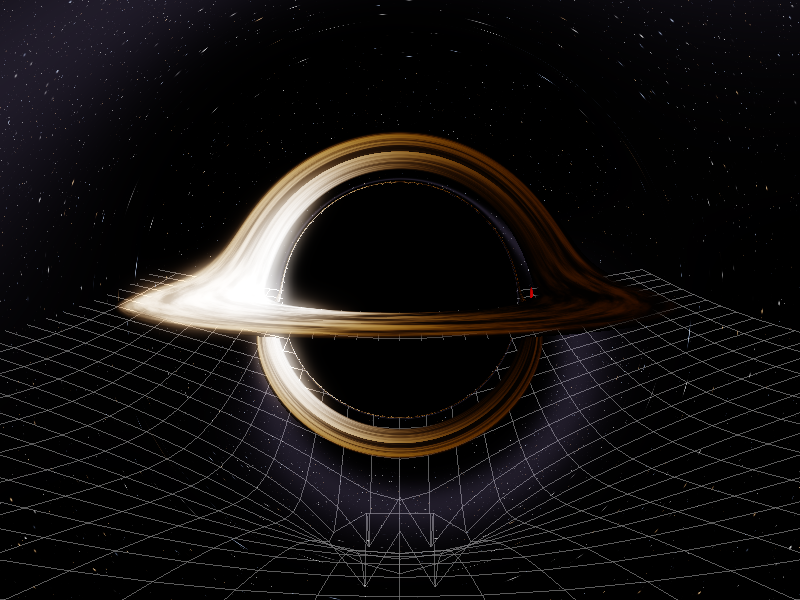
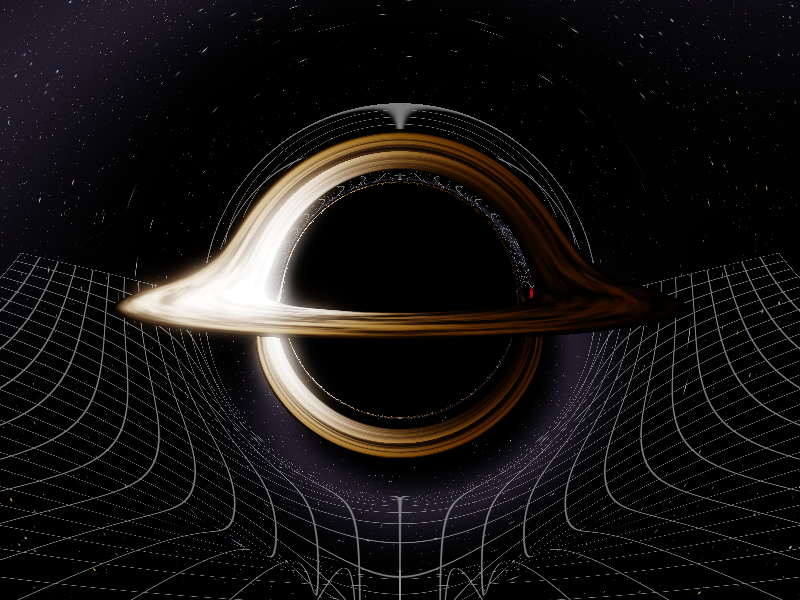
Ray trace the spacetime grid
The grid is now Flamm's paraboloid (the Schwarzschild embedding diagram)
intersected by the light rays themselves, instead of a flat overlay drawn
behind the image. It is lensed, wraps around the shadow, and is occluded
by the hole and disk.

- Lines are composited front-to-back and the ray continues through gaps
- Line width scales with ray distance for ~1px anti-aliased lines
- Bounding-box early-out keeps the cost close to zero
- T cycles grid mode (ray traced / off / reference overlay); --grid flag
- README and screenshot updated

diff --git a/src/main.cpp b/src/main.cpp
@@ -74,6 +74,10 @@ static bool  gGravity = false;
 static bool  gScreenshotRequested = false;   // set by the P key
 static bool  gRealDisk  = true;   // D: relativistic (Doppler/redshift) disk vs reference flat disk
 static bool  gShowStars = true;   // B: lensed starfield background
+// T: spacetime grid mode. 1 = ray traced (lensed, occluded), 0 = off,
+// 2 = flat overlay drawn behind the image (the reference's original method)
+static int   gGridMode = 1;
+static const char* kGridModeNames[] = { "off", "ray traced", "flat overlay (reference)" };
 
 // ---------- Camera ----------
 struct Camera {
@@ -365,11 +369,32 @@ vec4 diskColorRelativistic(vec3 pc, vec3 rayDir, float r1, float r2, float rCam,
     return vec4(c * edge, edge);
 }
 
+// ---------------------------------------------------------------------------
+// Ray-traced spacetime grid: Flamm's paraboloid, the embedding diagram of the
+// Schwarzschild geometry:  y(d) = Y0 + 2*sqrt(rs*(d - rs)),  d = horizontal
+// distance from the hole. Light rays hit it like any other surface, so the
+// grid is lensed, wraps around the shadow, and is hidden behind the hole.
+// Only the lines are drawn; rays pass through the gaps and continue.
+// ---------------------------------------------------------------------------
+const float GRID_SPACING_M = 1e10;   // line spacing (metres), same as the old CPU grid
+const float GRID_HALF      = 13.0;   // half-extent in cells
+const float GRID_Y0_M      = -9e10;  // height of the funnel's throat (metres)
+const float GRID_LINE_PX   = 1.1;    // line width in pixels
+const vec3  GRID_COLOR     = vec3(0.5);
+const float GRID_ALPHA     = 0.7;
+
+// signed height above the surface (rs units, rs = 1)
+float gridF(vec3 p, float y0){
+    float d = max(length(p.xz), 1.0);
+    return p.y - (y0 + 2.0 * sqrt(d - 1.0));
+}
+
 void main(){
     int WIDTH  = CAM.ires.x;
     int HEIGHT = CAM.ires.y;
     ivec2 pix = ivec2(gl_GlobalInvocationID.xy);
     if (pix.x >= WIDTH || pix.y >= HEIGHT) return;
+    bool rtGrid = CAM.ires.z == 1;
 
     int flags = int(CAM.params.w + 0.5);
     bool realDisk = (flags & 1) != 0;
@@ -388,8 +413,17 @@ void main(){
     vec3 hv = cross(x, v);
     H2 = dot(hv, hv);
 
-    vec4 color = vec4(0);           // default: escaped -> transparent (grid shows)
+    vec4 color = vec4(0);           // what the ray finally hits (premultiplied)
+    vec4 front = vec4(0);           // grid lines crossed on the way (front-to-back)
     bool done = false;
+
+    float gS   = GRID_SPACING_M / RS;
+    float gY0  = GRID_Y0_M / RS;
+    float gExt = GRID_HALF * gS;
+    float pixAngle = 2.0 * CAM.params.x / float(HEIGHT);   // radians per pixel
+    float travel = 0.0;                                     // distance along the ray
+    // highest point of the grid (its corners): steps entirely above it skip the test
+    float gTop = gY0 + 2.0 * sqrt(1.4143 * gExt - 1.0);
 
     for (int i = 0; i < MAX_STEPS && !done; ++i){
         float r = length(x);
@@ -397,6 +431,7 @@ void main(){
         vec3 p0 = x;
         rk4(x, v, h);
         vec3 p1 = x;
+        float segLen = length(p1 - p0);
 
         // --- earliest event along this step ---
         float bestT = 2.0;
@@ -419,6 +454,31 @@ void main(){
             float R = objPosRadius[k].w   / RS;
             if (segSphere(p0, p1, c, R, t) && t < bestT) { bestT = t; hit = 2; hitObj = k; }
         }
+
+        // grid surface: only counts if it's in front of whatever else this step hit
+        // cheap bounding-box rejection first: above the top, below the throat,
+        // or outside the square footprint on the same side
+        bool nearGrid = min(p0.y, p1.y) <= gTop && max(p0.y, p1.y) >= gY0 &&
+                        !(p0.x >  gExt && p1.x >  gExt) && !(p0.x < -gExt && p1.x < -gExt) &&
+                        !(p0.z >  gExt && p1.z >  gExt) && !(p0.z < -gExt && p1.z < -gExt);
+        if (rtGrid && nearGrid && front.a < 0.99) {
+            float f0 = gridF(p0, gY0), f1 = gridF(p1, gY0);
+            if (f0 * f1 < 0.0) {
+                float t = f0 / (f0 - f1);
+                vec3 P = mix(p0, p1, t);
+                if (t < bestT && length(P.xz) >= 1.0 &&
+                    abs(P.x) <= gExt && abs(P.z) <= gExt) {
+                    // distance to the nearest grid line, and line width at this distance
+                    vec2 g = abs(fract(P.xz / gS + 0.5) - 0.5) * gS;
+                    float dl = min(g.x, g.y);
+                    float w  = GRID_LINE_PX * pixAngle * (travel + t * segLen);
+                    float cov = 1.0 - smoothstep(0.0, w, dl);
+                    float a = GRID_ALPHA * cov;
+                    front += (1.0 - front.a) * vec4(GRID_COLOR * a, a);
+                }
+            }
+        }
+        travel += segLen;
 
         if (hit == 1) {
             vec3 pc = mix(p0, p1, bestT);
@@ -452,6 +512,8 @@ void main(){
     }
     if (!done) color = vec4(0,0,0,1);         // trapped near photon sphere
 
+    // grid lines in front, everything else behind (premultiplied "over")
+    color = front + (1.0 - front.a) * color;
     imageStore(outImage, pix, color);
 }
 )";
@@ -579,7 +641,7 @@ static void uploadCameraUBO(){
 
     int cw = gCam.moving ? gMovingW : gStillW;
     int ch = gCam.moving ? gMovingH : gStillH;
-    data.ires = ivec4(cw, ch, 0, 0);
+    data.ires = ivec4(cw, ch, gGridMode, 0);   // z = grid mode (1 = ray traced)
 
     glBindBuffer(GL_UNIFORM_BUFFER, gUBOCamera);
     glBufferSubData(GL_UNIFORM_BUFFER, 0, sizeof(CamUBO), &data);
@@ -838,6 +900,10 @@ static void keyCB(GLFWwindow* win, int key, int, int action, int){
         gRealDisk = !gRealDisk;
         std::cout << "[INFO] Disk: " << (gRealDisk ? "relativistic" : "reference (flat)") << std::endl;
     }
+    if(action==GLFW_PRESS && key==GLFW_KEY_T){
+        gGridMode = (gGridMode == 1) ? 0 : (gGridMode == 0 ? 2 : 1);   // ray traced -> off -> overlay
+        std::cout << "[INFO] Grid: " << kGridModeNames[gGridMode] << std::endl;
+    }
     if(action==GLFW_PRESS && key==GLFW_KEY_L){
         gBloom = !gBloom;
         std::cout << "[INFO] Bloom " << (gBloom ? "ON" : "OFF") << std::endl;
@@ -990,6 +1056,10 @@ int main(int argc, char** argv){
         else if(a == "--flat-disk")  gRealDisk = false;
         else if(a == "--no-stars")   gShowStars = false;
         else if(a == "--no-bloom")   gBloom = false;
+        else if(a == "--grid" && i+1 < argc) {
+            std::string m = argv[++i];
+            gGridMode = (m == "off") ? 0 : (m == "overlay" ? 2 : 1);
+        }
     }
 
     initGL();
@@ -1018,7 +1088,7 @@ int main(int argc, char** argv){
 
         // physics + rebuild warped grid (objects may have moved)
         stepGravity(dt);
-        generateGrid();
+        if (gGridMode == 2) generateGrid();
 
         // upload UBOs
         uploadCameraUBO();
@@ -1034,7 +1104,7 @@ int main(int argc, char** argv){
         mat4 V = lookAt(camPos, gCam.target, vec3(0,1,0));
         // 60deg FOV to match the ray tracer's tanHalfFov, so grid and image line up
         mat4 P = perspective(radians(60.0f), float(gWinW)/float(gWinH), 1e9f, 1e14f);
-        drawGrid(P*V);
+        if (gGridMode == 2) drawGrid(P*V);   // modes 0/1: grid is off or inside the ray tracer
 
         // blit
         drawQuad();

diff --git a/README.md b/README.md
@@ -25,7 +25,9 @@ relativistic effects.
 - **Animated gas.** A procedural texture with differential rotation: inner
   rings orbit faster than outer ones.
 - **HDR bloom and ACES tone mapping.**
-- **Warped spacetime grid** that visualises the curvature around each mass.
+- **Ray-traced spacetime grid.** The black hole's embedding diagram (Flamm's
+  paraboloid) is drawn as a grid that light rays actually hit, so it is
+  lensed, wraps around the shadow, and is hidden behind the hole.
 - **N-body gravity.** Stars fall toward the hole and are swallowed at the
   event horizon.
 - **Reference mode** (press `D`) that reproduces the flat orange disk from the
@@ -41,6 +43,7 @@ relativistic effects.
 | `D` | Relativistic disk ↔ reference flat disk |
 | `B` | Starfield on/off |
 | `L` | Bloom on/off |
+| `T` | Grid: ray traced → off → flat overlay (reference) |
 | `P` | Save a screenshot (`screenshot_<time>.bmp`) |
 | `Esc` | Quit |
 
@@ -71,7 +74,8 @@ GLAD and prebuilt GLFW binaries are included in `third_party/`.
 ### Command-line options
 
 ```
-main.exe [--screenshot out.bmp [frames]] [--gravity] [--flat-disk] [--no-stars] [--no-bloom]
+main.exe [--screenshot out.bmp [frames]] [--gravity] [--flat-disk] [--no-stars]
+         [--no-bloom] [--grid ray|off|overlay]
 ```
 
 `--screenshot` renders the given number of frames (default 20), saves the last
@@ -92,6 +96,9 @@ Everything is in [`src/main.cpp`](src/main.cpp), including the shaders.
 3. **Hits.** Each step is tested against the disk plane (interpolated to the
    exact crossing point), the stars (segment–sphere test), and the event
    horizon. Rays that escape sample the starfield in their final direction.
+   The grid surface `y = y₀ + 2·√(rs·(d − rs))` is tested on every step too.
+   Grid lines are blended in front to back and the ray keeps going, so
+   whatever lies behind still shows through the gaps.
 4. **Disk shading.** `g = Doppler × gravitational` shift. Observed intensity
    scales as `g⁴` and observed temperature as `g · T`.
 5. **Post-processing.** The HDR image goes through a bright pass, a two-scale
